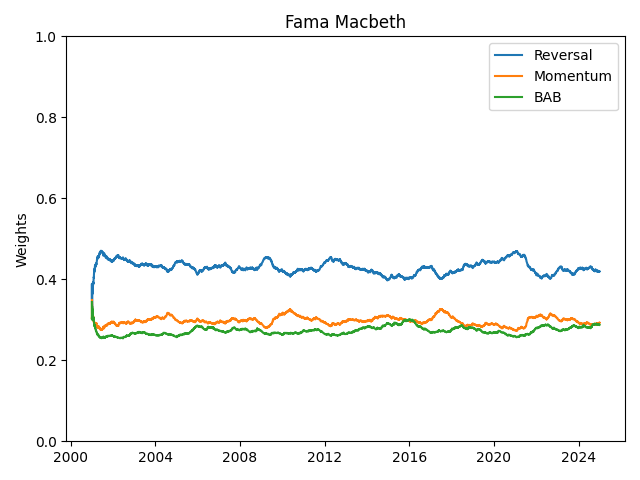
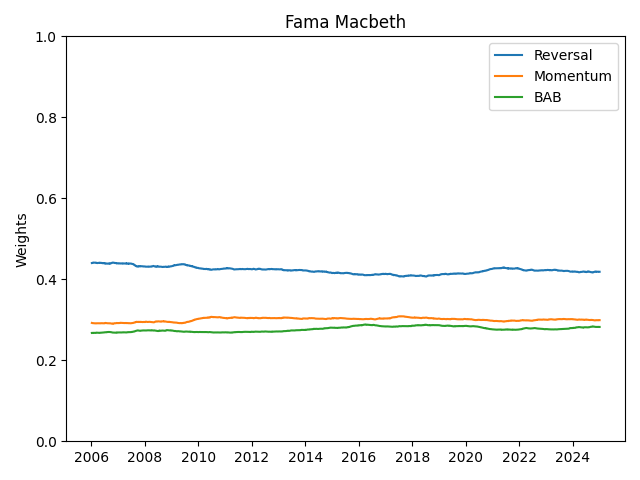
Fixed bayesian parameterization. Added equal. Fixed date bug.

diff --git a/experiments/equal.py b/experiments/equal.py
@@ -9,12 +9,6 @@ start = dt.date(2001, 1, 1)
 end = dt.date(2024, 12, 31)
 plot_start = dt.date(2006, 1, 9)
 WINDOW = 252 * 5
-K = 3
-
-# Prior hyperparameters
-mu_0 = np.ones(K) / K
-n_0 = 252 # Pseudo observations
-Sigma_0 = np.eye(K) * (1 / 100) # Diagonal 1% variance
 
 # Load returns (mve)
 returns_list = []
@@ -28,56 +22,28 @@ returns: pl.DataFrame = pl.concat(returns_list)
 returns = (
     returns
     .pivot(index='date', on='name', values='return')
+    .drop_nulls()
     .sort('date')
 )
 
-# Compute signal weights using multivariate normal-normal conjugate prior on a rolling window
-dates = returns['date'].to_list()
-returns_np = returns.select(signal_names).to_numpy()
+dates = returns.select('date').unique().sort('date')
 
-rows = []
-for t in range(WINDOW, len(returns_np)):
-    X = returns_np[t - WINDOW : t]
-    n = X.shape[0]
-    x_bar = X.mean(axis=0)
-    Sigma = np.cov(X, rowvar=False)
-
-    # Posterior parameters (multivariate normal conjugate update)
-    Sigma_0_inv = np.linalg.inv(Sigma_0)
-    Sigma_inv = np.linalg.inv(Sigma)
-    Sigma_n = np.linalg.inv(Sigma_0_inv + n * Sigma_inv)
-    mu_n = Sigma_n @ (n_0 * Sigma_0_inv @ mu_0 + n * Sigma_inv @ x_bar)
-
-    weights_raw = np.linalg.solve(Sigma_n, mu_n)
-
-    # Normalize
-    weights_normalized = weights_raw / np.abs(weights_raw).sum()
-
-    # Softmax
-    exp_w = np.exp(weights_normalized - weights_normalized.max())
-    weights_softmax = exp_w / exp_w.sum()
-
-    rows.append(
-        {'date': dates[t]} |
-        {f"w_raw_{name}": mu_n[i] for i, name in enumerate(signal_names)} |
-        {f"w_norm_{name}": weights_normalized[i] for i, name in enumerate(signal_names)} |
-        {f'w_{name}': weights_softmax[i] for i, name in enumerate(signal_names)}
-    )
-
-# Combine and smooth weights
-weight_columns = [f'w_{name}' for name in signal_names]
-signal_weights = pl.DataFrame(rows)
 signal_weights = (
-    signal_weights
-    .sort('date')
+    dates
     .with_columns(
-        pl.col(weight_columns).ewm_mean(span=252)
+        [
+        pl.Series(f'w_{name}', [1.0 / len(signal_names)] * len(dates))
+        for name in signal_names
+        ]
     )
     .filter(
         pl.col('date').ge(plot_start)
     )
     .sort('date')
 )
+
+# Combine and smooth weights
+weight_columns = [f'w_{name}' for name in signal_names]
 
 returns_long = (
     returns
@@ -112,31 +78,13 @@ portfolio_returns = (
 )
 
 # Save results
-folder_path = Path("results/bayesian_nn")
+folder_path = Path("results/equal")
 folder_path.mkdir(exist_ok=True, parents=True)
 
 save_returns_plot(
     returns=portfolio_returns,
     file_path=folder_path / "returns.png",
-    title='Bayesian Normal-Normal'
-)
-
-save_values_lineplot(
-    values=signal_weights,
-    columns=['w_raw_reversal', 'w_raw_momentum', 'w_raw_bab'],
-    labels=['Reversal', 'Momentum', 'BAB'],
-    file_path=folder_path / "values.png",
-    title="Bayesian Normal-Normal",
-    value_name="Raw Weights"
-)
-
-save_values_lineplot(
-    values=signal_weights,
-    columns=['w_norm_reversal', 'w_norm_momentum', 'w_norm_bab'],
-    labels=['Reversal', 'Momentum', 'BAB'],
-    file_path=folder_path / "normalized.png",
-    title="Bayesian Normal-Normal",
-    value_name="Normalized Weights"
+    title='Equal'
 )
 
 save_weights_stackplot(
@@ -146,7 +94,7 @@ save_weights_stackplot(
     signal_weights['w_bab'],
     labels=['Reversal', 'Momentum', 'BAB'],
     file_path=folder_path / "stackplot.png",
-    title="Bayesian Normal-Normal",
+    title="Equal",
 )
 
 save_weights_lineplot(
@@ -154,5 +102,6 @@ save_weights_lineplot(
     columns=['w_reversal', 'w_momentum', 'w_bab'],
     labels=['Reversal', 'Momentum', 'BAB'],
     file_path=folder_path / "lineplot.png",
-    title="Bayesian Normal-Normal",
+    title="Equal",
 )
+

diff --git a/experiments/fama_macbeth.py b/experiments/fama_macbeth.py
@@ -9,7 +9,8 @@ from pathlib import Path
 signal_names = ['reversal', 'momentum', 'bab']
 start = dt.date(2000, 1, 1)
 end = dt.date(2024, 12, 31)
-WINDOW = 252
+plot_start = dt.date(2006, 1, 9)
+WINDOW = 252 * 5
 
 assets = get_assets_data(start, end)
 
@@ -123,6 +124,10 @@ signal_weights = (
         w_momentum=pl.col('w_momentum').ewm_mean(span=span),
         w_reversal=pl.col('w_reversal').ewm_mean(span=span),
         w_bab=pl.col('w_bab').ewm_mean(span=span)
+    )
+    .sort('date')
+    .filter(
+        pl.col('date').ge(plot_start)
     )
     .sort('date')
 )

diff --git a/experiments/mve.py b/experiments/mve.py
@@ -7,7 +7,8 @@ import datetime as dt
 signal_names = ['reversal', 'momentum', 'bab']
 start = dt.date(2001, 1, 1)
 end = dt.date(2024, 12, 31)
-WINDOW = 252
+plot_start = dt.date(2006, 1, 9)
+WINDOW = 252 * 5
 
 # Load returns (mve)
 returns_list = []
@@ -59,8 +60,12 @@ signal_weights = (
     signal_weights
     .sort('date')
     .with_columns(
-        pl.col(weight_columns).ewm_mean(span=WINDOW)
+        pl.col(weight_columns).ewm_mean(span=252)
     )
+    .filter(
+        pl.col('date').ge(plot_start)
+    )
+    .sort('date')
 )
 
 returns_long = (
